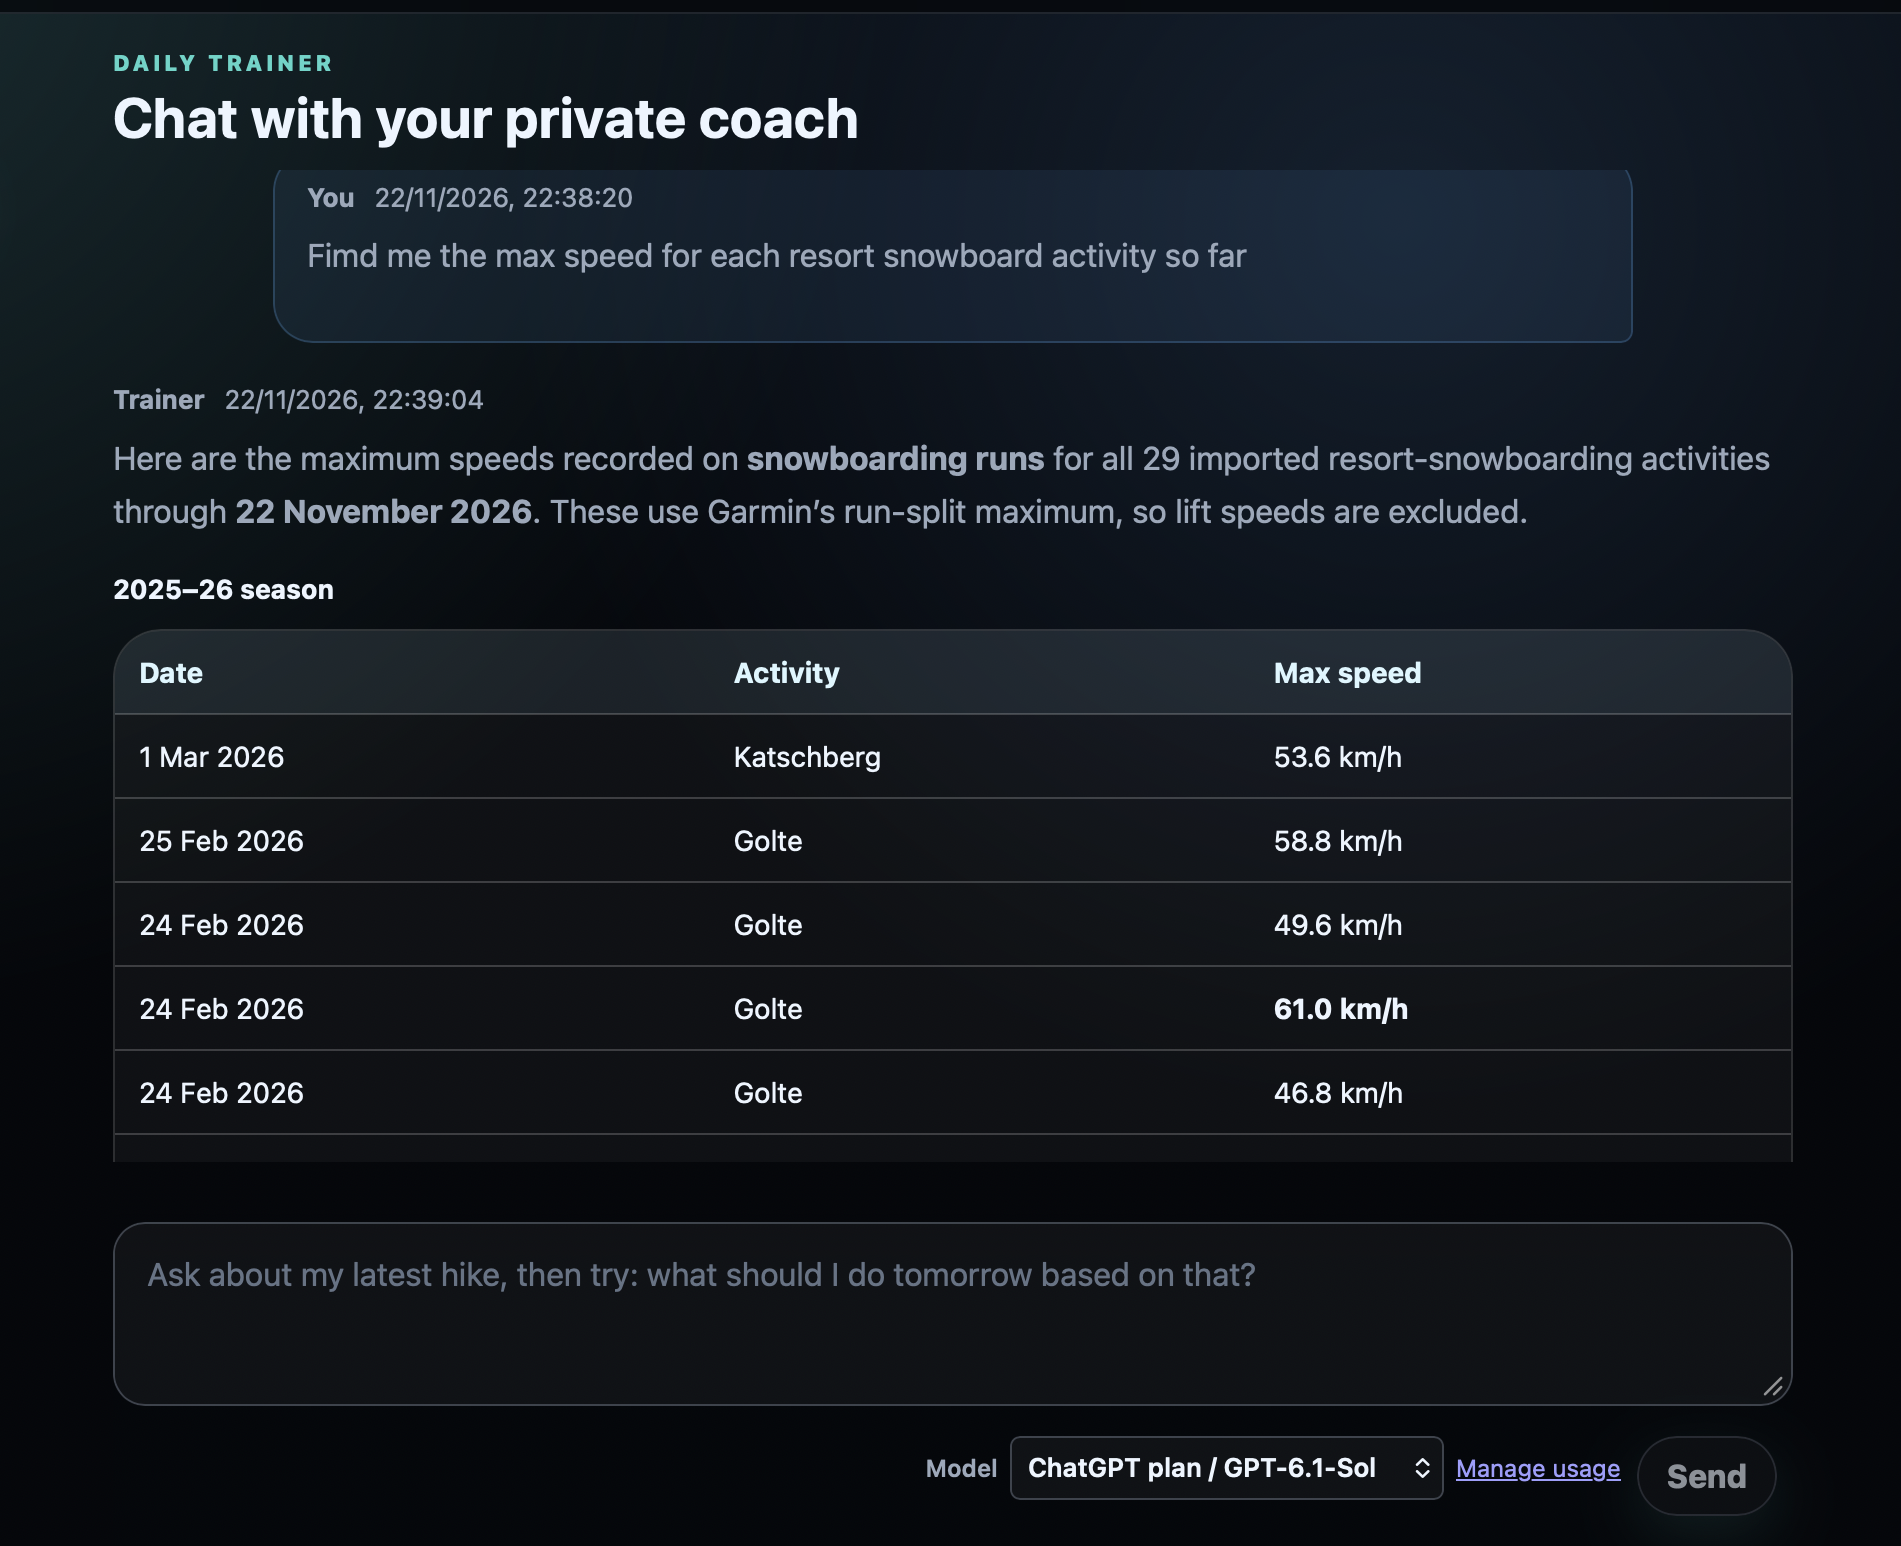
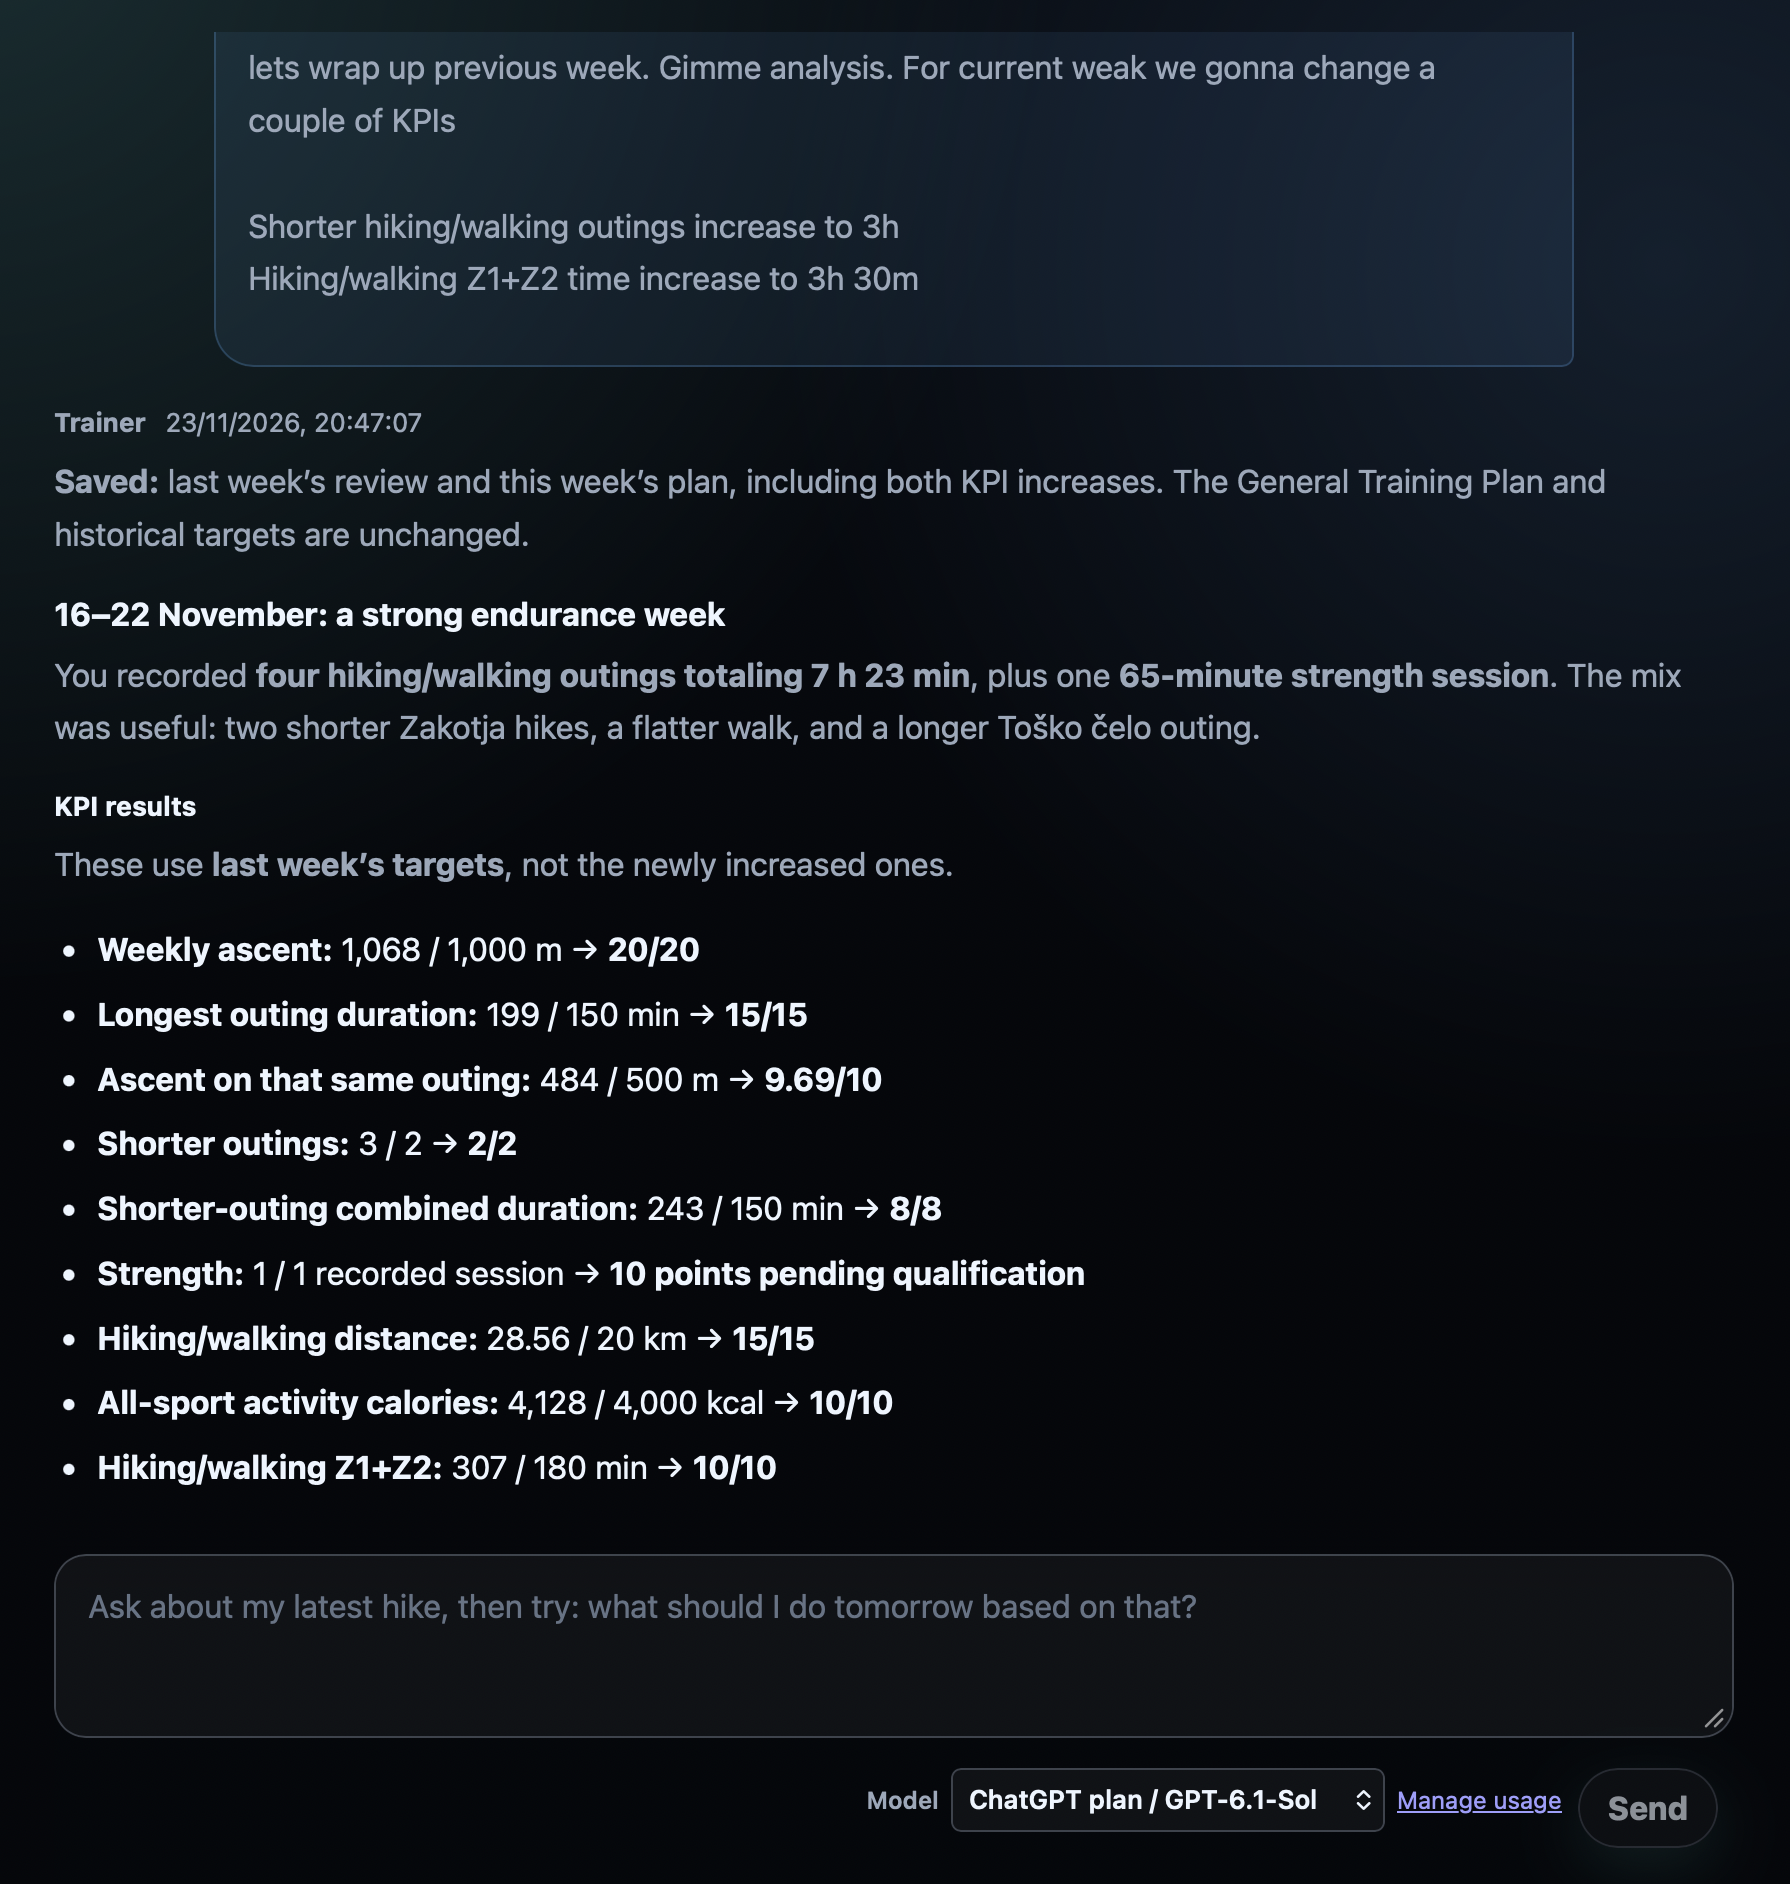
Update README hero with weekly KPI review

diff --git a/README.md b/README.md
@@ -8,7 +8,7 @@ Windows: the app also builds for Windows, but it has no maintainer yet. If you c
 
 _An independent open-source project, not affiliated with or endorsed by Garmin._
 
-![Trainer chat answering a question about a whole season of activities](docs/screenshots/chat.png)
+![Trainer chat reviewing last week against its KPI targets and saving next week's plan](docs/screenshots/chat.png)
 
 ## Why it is different
 

diff --git a/release-notes/unreleased/T0387-weekly-kpi-readme-hero.md b/release-notes/unreleased/T0387-weekly-kpi-readme-hero.md
@@ -1,0 +1,7 @@
+---
+task: T0387
+pr: pending
+category: Internal
+release_note_required: false
+reason: README screenshot only
+---
